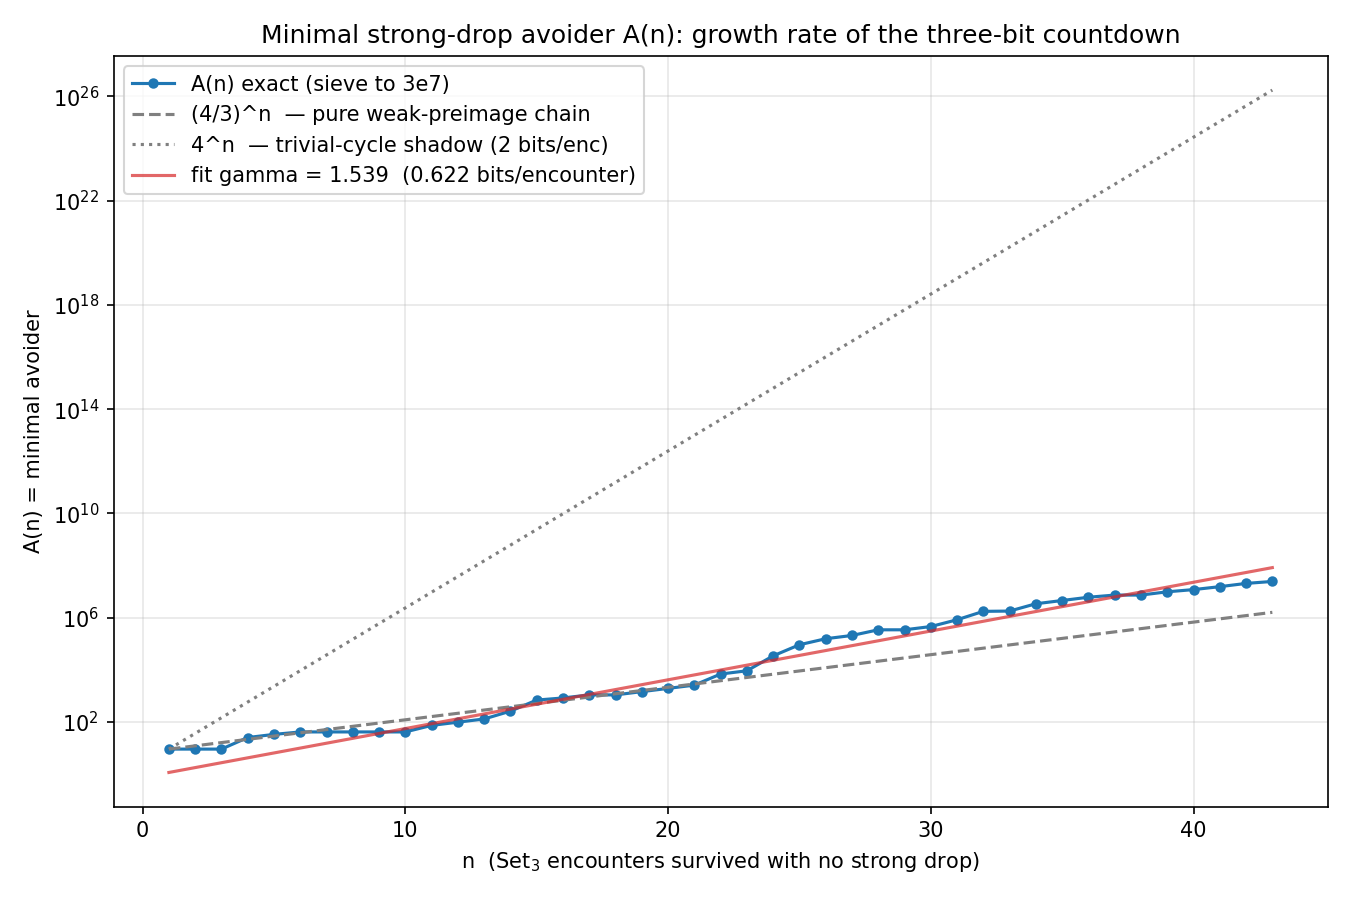
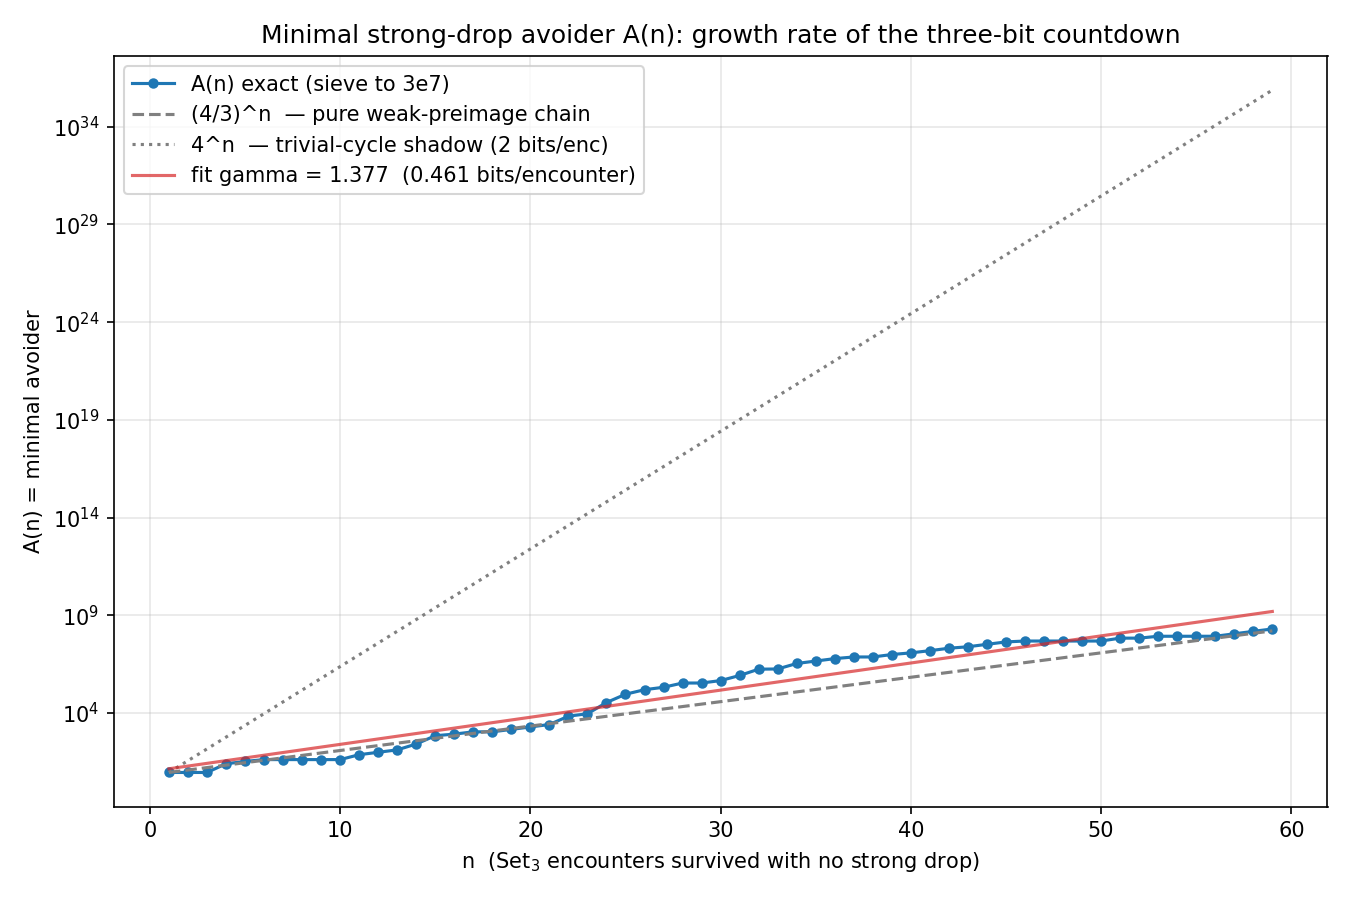
feat(countdown): interaction identity + two-tank machine + A(n) to n=59
- General identity F_d'(m2) = [3 F_d'(m) + 2^d' - 2^d]/2^d proved: generates
  all ledgers, cross-refill rules, and escape-hatch conditions
- Exact refill rules: weak V=3/4/>=5 -> W'=1/geom/2; medium W=4/5/>=6 dual;
  hatches at the critical levels V=4, W=5 are where strong drops get forced
- A(n) extended exactly to n=59 (sieve 2e8): tail growth ~1.14 < 4/3;
  (4/3)^(3/2) conjecture retracted as a window artifact
- Census: telescoping identity eps < 0.23; reduction to step-census bound
- New proof path: min-mean-cycle of the gated two-tank machine (finite comp)

Claude-Session: https://claude.ai/code/session_01R2Ysv6URyXDAqKZgKxNGdy

diff --git a/scripts/three_bit_census.py b/scripts/three_bit_census.py
@@ -1,0 +1,122 @@
+"""Census of minimal-avoider streaks + the exact tank-refill rules.
+
+Part 1 — step census of A(n) minimizers.  For a streak with a weak drops,
+b medium drops, c growth steps and strong root z, the exact telescoping gives
+    log2 m = log2 z + (2 - log2 3) a + (3 - log2 3) b - (log2 3 - 1) c + eps
+with eps = accumulated log(1 + 1/(3v)) corrections.  The Three-Bit Countdown
+conjecture A(n) >= C (4/3)^n is EQUIVALENT (up to constants) to the census
+bound   c <= (b + log2 z) / (log2 3 - 1)  ~  1.7095 (b + log2 z).
+
+Part 2 — refill rules.  The medium tank W = v2(5m-1) empties by exactly 3 per
+medium drop (ledger).  Under a WEAK drop it refills; algebra predicts, with
+V = v2(m-1) at the weak encounter:
+    V = 3   -> W' = 1
+    V >= 5  -> W' = 2
+    V = 4   -> W' >= 3, value set by higher bits of m   (the escape hatch)
+Under a MEDIUM drop the weak tank refills via V' = v2(3t-1) - 1, t = (m-1)/4.
+This script measures both rules exhaustively.
+
+Part 3 — how much local state determines the NEXT encounter's type.
+"""
+
+from __future__ import annotations
+
+import math
+import sys
+from collections import Counter, defaultdict
+from pathlib import Path
+
+sys.path.insert(0, str(Path(__file__).resolve().parent.parent))
+
+from collatz.core import v2  # noqa: E402
+
+LOG2_3 = math.log2(3)
+
+
+def streak_census(m: int):
+    """(a, b, c, z, n) for m's avoidance streak; z = the strong-encounter value."""
+    a = b = c = 0
+    v = m
+    while True:
+        if v % 4 == 3:
+            v = (3 * v + 1) // 2
+            c += 1
+            continue
+        t = 3 * v + 1
+        d = v2(t)
+        if d >= 4:
+            return a, b, c, v, a + b
+        if d == 2:
+            a += 1
+        else:
+            b += 1
+        v = t >> d
+
+
+def part1(avoiders: list[int]) -> None:
+    print("n   A(n)        a   b   c   log2z   eps     c_bound=1.71(b+log2z)  slack")
+    for m in avoiders:
+        a, b, c, z, n = streak_census(m)
+        lz = math.log2(z)
+        eps = math.log2(m) - (lz + (2 - LOG2_3) * a + (3 - LOG2_3) * b - (LOG2_3 - 1) * c)
+        bound = (b + lz) / (LOG2_3 - 1)
+        print(f"{n:<3} {m:<11} {a:<3} {b:<3} {c:<3} {lz:6.2f} {eps:7.3f}   "
+              f"{bound:8.2f}              {bound - c:6.2f}")
+
+
+def part2(limit: int) -> None:
+    weak = defaultdict(Counter)    # V -> Counter of W' = v2(5*m2-1)
+    med = defaultdict(Counter)     # W -> Counter of V' = v2(m2-1)
+    for m in range(9, limit, 4):
+        d = v2(3 * m + 1)
+        if d == 2:
+            V = v2(m - 1)
+            m2 = (3 * m + 1) // 4
+            weak[V][v2(5 * m2 - 1)] += 1
+        elif d == 3:
+            W = v2(5 * m - 1)
+            m2 = (3 * m + 1) // 8
+            med[W][v2(m2 - 1)] += 1
+    print("\nWeak-drop refill of medium tank W' = v2(5m2-1), by V = v2(m-1):")
+    for V in sorted(weak):
+        dist = dict(sorted(weak[V].items()))
+        print(f"  V={V:<2}  W' dist: {dist}")
+    print("\nMedium-drop refill of weak tank V' = v2(m2-1), by W = v2(5m-1):")
+    for W in sorted(med):
+        dist = dict(sorted(med[W].items()))
+        print(f"  W={W:<2}  V' dist: {dist}")
+
+
+def part3(limit: int) -> None:
+    """Is the next encounter type determined by (V, W) at the current one?"""
+    table = defaultdict(Counter)
+    for m in range(9, limit, 4):
+        d = v2(3 * m + 1)
+        if d >= 4:
+            continue
+        V, W = min(v2(m - 1), 8), min(v2(5 * m - 1), 8)
+        v = (3 * m + 1) >> d
+        while v % 4 == 3:
+            v = (3 * v + 1) // 2
+        d2 = v2(3 * v + 1)
+        table[(d, V, W)]["weak" if d2 == 2 else "medium" if d2 == 3 else "strong"] += 1
+    det = tot = 0
+    for k, cnt in table.items():
+        s = sum(cnt.values())
+        tot += s
+        det += max(cnt.values())
+    print(f"\nNext-type predictability from (d, V<=8, W<=8): best-guess accuracy "
+          f"{det/tot:.4f} over {tot} encounters ({len(table)} states)")
+    ent = sum(-c / tot * math.log2(c / sum(cnt.values()))
+              for cnt in table.values() for c in cnt.values() if c)
+    print(f"conditional entropy H(next type | state) = {ent:.4f} bits (max log2 3 = 1.585)")
+
+
+if __name__ == "__main__":
+    avoiders = [9, 25, 33, 41, 73, 97, 129, 257, 685, 825, 1081, 1441, 1921, 2561,
+                6829, 9105, 34041, 90777, 154633, 206177, 340153, 453537, 826785,
+                1737849, 1780281, 3397753, 4530337, 6040449, 7322617, 9763489,
+                11871913, 15377593, 20503457, 24381193]
+    part1(avoiders)
+    part2(2_000_000)
+    part3(2_000_000)

diff --git a/docs/Conjectures/Three-Bit Countdown.md b/docs/Conjectures/Three-Bit Countdown.md
@@ -53,19 +53,42 @@ Verified with 0 violations across ~50K cases each (`three_bit_backward_law.py`);
 
 **Chain gas is 3-adic valuation:** consecutive L3-chains have length exactly $v_3(m+1)$; consecutive L1-chains exactly $v_3(m-1)$ (both verified exact). The 2-adic/3-adic duality of the framework is literal here: forward orbits spend $v_2$ and earn $v_3$ per form; backward chains spend the $v_3$.
 
+## 2b. The interaction identity and the two-tank machine (PROVED, 2026-07-28 continuation)
+
+The whole calculus compresses into one formula. For **any** two depths $d, d'$ and odd $m$ with step depth $d = v_2(3m+1)$:
+
+$$F_{d'}(m_2) \;=\; \frac{3\,F_{d'}(m) + 2^{d'} - 2^{d}}{2^{d}}.$$
+
+*Proof.* $2^d F_{d'}(m_2) = (2^{d'}-3)(3m+1) - 2^d = 3F_{d'}(m) + (2^{d'}-3) + 3 - 2^d$. $\blacksquare$ (Verified 300K × 6 depths, exact.)
+
+$d'=d$ recovers the master ledger; $d' \neq d$ gives every cross-refill, with an **escape hatch** exactly when $v_2(3F_{d'}(m)) = \min(d,d')$ (2-adic cancellation). Writing $V = v_2(m-1)$, $W = v_2(5m-1)$, the encounter state collapses to a *single active tank* — weak $(V\ge3, W=2)$, medium $(V=2, W\ge4)$, strong $(V=2, W=3)$ — with exact rules (all measured exhaustively to $2\times10^6$, zero exceptions, and provable from the identity via $15(m-1)+16$ and $3(5m-1)-32$):
+
+| drop | own ledger | cross-refill | hatch |
+|------|-----------|--------------|-------|
+| weak $V{=}3$ | $V'{=}1$ (→ growth phase) | $W'{=}1$ | — |
+| weak $V{=}4$ | $V'{=}2$ | $W' \ge 3$ **geometric** | **yes**: $W'{=}3$ ⟹ next is STRONG |
+| weak $V{\ge}5$ | $V'{=}V{-}2$ (stays weak) | $W'{=}2$ | — |
+| medium $W{=}4$ | $V'{=}1$ (→ growth phase) | $W'{=}1$ | — |
+| medium $W{=}5$ | $W'{=}2$ | $V' \ge 3$ **geometric** | **yes** (re-enters weak mode) |
+| medium $W{\ge}6$ | $W'{=}W{-}3$ | $V'{=}2$ | $W'{=}3$ ⟹ next is STRONG |
+
+The deterministic branches drain fuel toward the critical levels $V{=}4$, $W{=}5$ ($=2^{d+2}$ in the proofs); only at hatches and growth-phase exits do fresh bits of $m$ enter. Avoiding strong forever means threading every hatch. Next-encounter type given $(d, V, W)$: 2/3 predictable, $H = 0.92$ bits — the residual entropy is exactly the hatch/growth-exit freedom.
+
 ## 3. The minimal-avoider function $A(n)$ (exact data)
 
 $$A(n) = \min\{m \equiv 1 \bmod 4,\ m>1 : \mathrm{enc}(m) \ge n\}.$$
 
 A depth-3 countdown theorem is **equivalent** to a lower bound $A(n) \ge c\,\gamma^n$ with $\gamma > 1$: it gives the pointwise bound $\mathrm{enc}(m) \le \log_\gamma(m/c)$, i.e. *every orbit meets a strong drop within $O(\log m)$ encounters*.
 
-Exact values (sieve to $3\times 10^7$, `three_bit_avoidance_tree.py`): $A(1..43)$ = 9, 9, 9, 25, 33, 41, …, 24 381 193. Observed structure:
+Exact values (sieve to $2\times 10^8$, `three_bit_avoidance_tree.py`): $A(1..59)$ = 9, 9, 9, 25, 33, 41, …, 199 327 233. Observed structure:
 
 * Minimizers propagate by **L1** (ratio $4/3$; runs visible as v$_2(m-1)$ climbing 3,5,7,9 — L1 adds 2 bits there per step) and **L2** (ratio $8/3$), and die at $\equiv 0 \bmod 3$, spawning jump families (41, 257, 825, 34041, …).
-* Fitted growth: $\gamma = 1.5387$ ($0.622$ bits/encounter), strikingly close to $(4/3)^{3/2} = 1.5396$ — the rate of a chain averaging one L1 + one L2 + one L3 per two encounters, factor $\tfrac43\cdot\tfrac83\cdot\tfrac23 = (4/3)^3$.
 * Upper bound (proved): the class of $1$ shadows the trivial cycle at 2 bits/encounter, so $A(n) \le C\cdot 4^n$.
+* **Growth-rate caution.** Fitting $n \le 43$ gave $\gamma = 1.539 \approx (4/3)^{3/2}$ — but extending to $n = 59$ drops the overall fit to $\gamma = 1.377$, and the tail segment $n = 44..59$ grows at only $\approx 1.14$/encounter, *below* $4/3$. Deeper record families keep finding cheaper backward chains. The $(4/3)^{3/2}$ pattern was a window artifact; the true $\liminf A(n)^{1/n}$ is unresolved by this data and possibly approaches a limit set by the extremal cycles of the two-tank machine.
 
-**Conjecture (Three-Bit Countdown).** $A(n) \ge c\,(4/3)^n$ for some $c>0$; empirically the truth is $\approx (4/3)^{3n/2}$.
+**Conjecture (Three-Bit Countdown, revised).** $A(n) \ge c\,\gamma^n$ for some $\gamma > 1$ — the countdown needs any exponential rate, not $4/3$ specifically. The candidate value of $\gamma$ is the min-mean-cycle growth of the gated two-tank machine of §2b (a *finite computation*, see §5b), which the backward L-chains realize.
+
+**Census check** (`three_bit_census.py`): the exact telescoping $\log_2 m = \log_2 z + (2-\log_2 3)a + (3-\log_2 3)b - (\log_2 3 - 1)c + \varepsilon$ holds with $|\varepsilon| < 0.23$ on all minimizers ($a,b,c$ = weak/medium/growth step counts, $z$ = strong root), so $A(n) \ge c\gamma^n$ is equivalent to the **step-census bound** $c \le (b + \log_2 z)/(\log_2 3 - 1) - \delta n$. Minimizers run at slack $\approx 11$–$13$ from the $\delta = 0$ line at $n \le 43$.
 
 ## 4. Why soft arguments cannot close this
 
@@ -80,6 +103,15 @@ $$5m_2 - 1 = \frac{3(5m-1)+4}{4} = 3u+1 \quad\Longrightarrow\quad v_2(5m_2-1) = 
 
 The refill of the medium tank is itself a $3x+1$ valuation of an auxiliary odd variable. The recursion is Collatz-like one level down — this is the precise algebraic face of "depends on higher bits" from the old plan, and the exact spot a proof of §3's conjecture must control.
 
+## 5b. The concrete proof path: min-mean-cycle of the gated machine
+
+The two-tank machine (§2b) plus the mod-3 gates (§2) is a finite-state over-approximation of all avoidance words once fuel is capped (high fuel acts uniformly) and the 3-adic state is truncated to $m \bmod 3^j$. Its minimum mean value-growth per encounter, over all cycles (Karp's algorithm), is a **rigorous lower bound** on $\liminf A(n)^{1/n}$: an over-approximation admits more words, so its minimum can only be smaller. The program:
+
+1. Measure/derive the growth-phase exit rule (the $(V,W)$ distribution when a growth phase ends) — the last unmodelled transition.
+2. Build the product graph (mode, capped fuel, $m \bmod 3^j$); edge weights $\log_2(\text{backward factor}) \in \{\log_2\frac43, \log_2\frac83, \log_2\frac23\}$.
+3. Compute min-mean-cycle. If $> 0$: exponential lower bound on $A(n)$ **proved** modulo the (bounded-ratio telescoping) value-tracking lemma, which handles the $\pm1$ corrections via each step's exact linearity in its own coordinate.
+4. If $\le 0$ at every truncation $j$: the obstruction is genuinely 3-adic-deep, and the offending cycles name it precisely.
+
 ## 6. Status
 
 | Claim | Status |
@@ -90,6 +122,9 @@ The refill of the medium tank is itself a $3x+1$ valuation of an auxiliary odd v
 | Backward tree = L1/L2/L3 gated by mod 3; death at $0 \bmod 3$ | **PROVED** |
 | Chain gas $=$ $v_3(m\mp1)$ | **PROVED** (affine conjugation) |
 | $A(n) \le C\cdot4^n$ | **PROVED** (trivial-class shadow) |
-| $A(n)$ exact to $n=43$; $\gamma \approx (4/3)^{3/2}$ | **COMPUTED** |
-| $A(n) \ge c\,(4/3)^n$ (⟹ strong drop within $O(\log m)$ encounters) | **OPEN** — the Three-Bit Countdown |
+| Interaction identity $F_{d'}(m_2) = [3F_{d'}(m) + 2^{d'} - 2^d]/2^d$ | **PROVED** (one line; 300K × 6 depths exact) |
+| Two-tank refill rules + hatch structure | **PROVED** (from identity; exhaustive to $2\times10^6$) |
+| $A(n)$ exact to $n=59$; tail growth $\approx 1.14 <$ overall fit $1.38$ | **COMPUTED** (rate unresolved; $(4/3)^{3/2}$ retracted) |
+| $A(n) \ge c\,\gamma^n$, some $\gamma>1$ (⟹ strong drop within $O(\log m)$ encounters) | **OPEN** — the Three-Bit Countdown |
+| Min-mean-cycle of gated machine $> 0$ | **OPEN** — finite computation, §5b |
 | Ansatz $v_2(m-a)$ monotone along streaks | **REFUTED** ($v_2(m-1)$ double-increases 2954× once medium drops interleave) |
